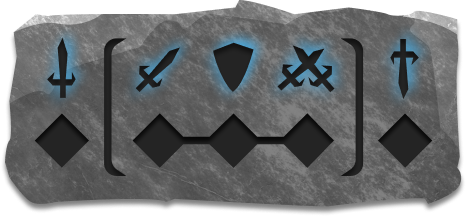
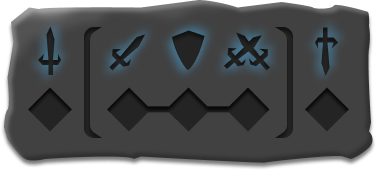
ManSant graphical updates

diff --git a/src/routes/game/components/elements/phaseTrackerWidget/PhaseTrackerWidget.module.css b/src/routes/game/components/elements/phaseTrackerWidget/PhaseTrackerWidget.module.css
@@ -25,6 +25,6 @@
   background-size: contain;
   height: 30px;
   width: 30px;
-  top: 40px;
+  top: 39px;
   transition: all 0.25s ease-out;
 }
